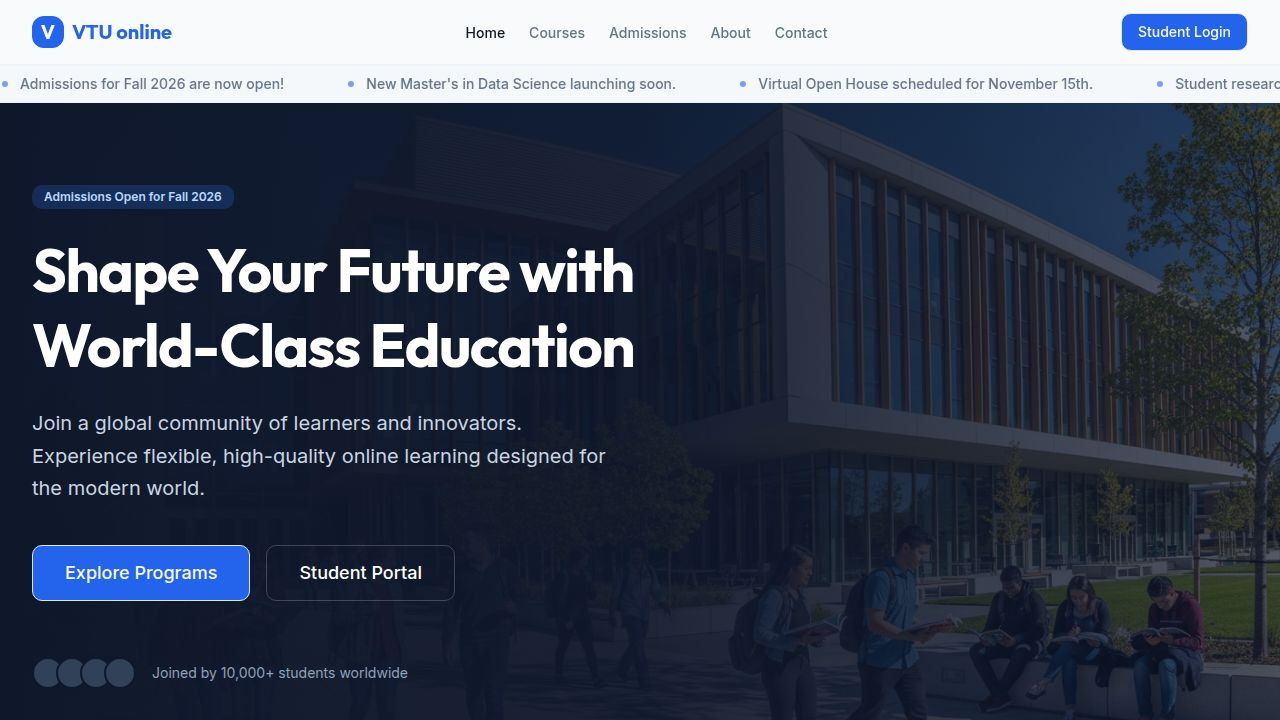
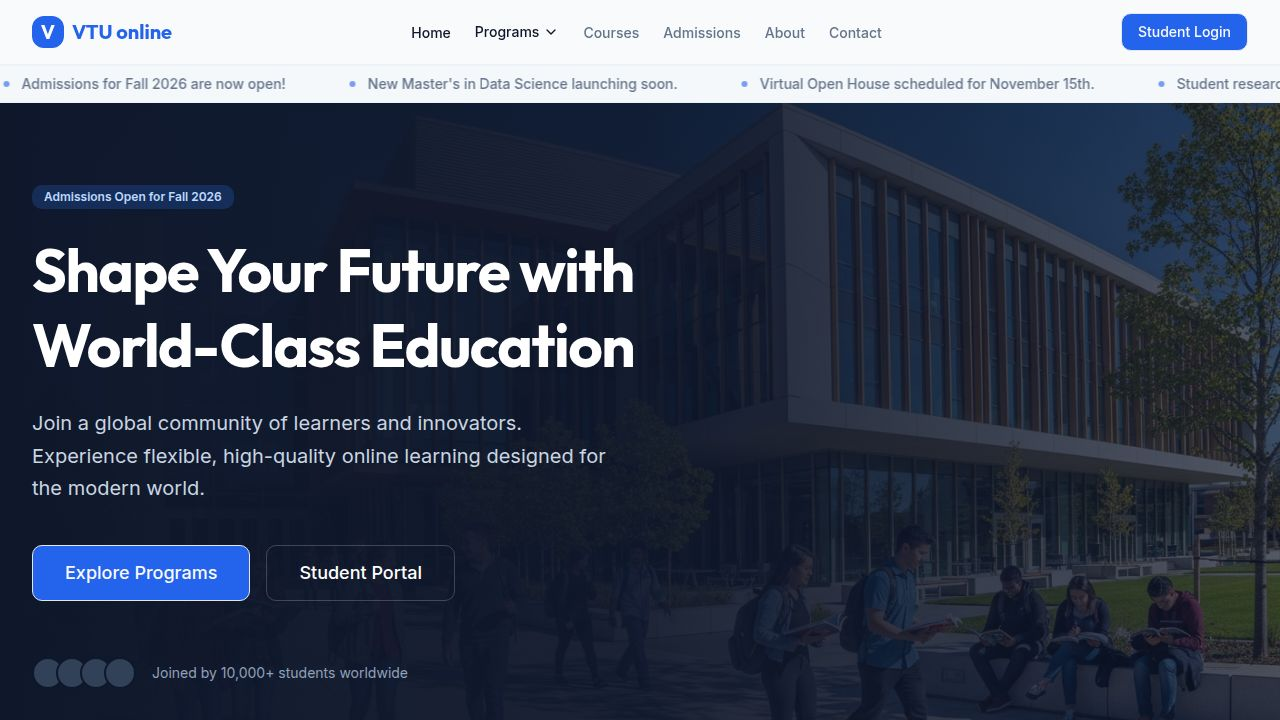
Reorganize navigation to separate programs and courses
Update App.tsx to handle separate routes for /programs/:programId and /courses/:courseId, and modify PublicLayout.tsx to rename the "Courses" dropdown to "Programs" and add a new separate "Courses" link.

Replit-Commit-Author: Agent
Replit-Commit-Session-Id: 80f406d5-0d03-458c-a75a-654c237fc839
Replit-Commit-Checkpoint-Type: full_checkpoint
Replit-Commit-Event-Id: ddef63ff-d65f-4467-a253-df8f7000a178
Replit-Commit-Screenshot-Url: https://storage.googleapis.com/screenshot-production-us-central1/d19b8a95-6b36-4bbb-87ff-ddd33fc5f158/80f406d5-0d03-458c-a75a-654c237fc839/eZwpiCq
Replit-Helium-Checkpoint-Created: true

diff --git a/client/src/components/layout/PublicLayout.tsx b/client/src/components/layout/PublicLayout.tsx
@@ -24,16 +24,16 @@ export default function PublicLayout({ children }: { children: React.ReactNode }
   const navLinks: NavItem[] = [
     { name: "Home", href: "/" },
     { 
-      name: "Courses", 
-      href: "/courses",
+      name: "Programs", 
+      href: "#",
       children: [
-        { name: "MOOC Resources", href: "/courses" },
-        { name: "Undergraduate", href: "/courses/undergraduate" },
-        { name: "Postgraduate", href: "/courses/postgraduate" },
-        { name: "Diploma Programs", href: "/courses/diploma" },
-        { name: "Certificates", href: "/courses/certificates" },
+        { name: "Undergraduate", href: "/programs/undergraduate" },
+        { name: "Postgraduate", href: "/programs/postgraduate" },
+        { name: "Diploma Programs", href: "/programs/diploma" },
+        { name: "Certificates", href: "/programs/certificates" },
       ]
     },
+    { name: "Courses", href: "/courses" },
     { name: "Admissions", href: "/admissions" },
     { name: "About", href: "/about" },
     { name: "Contact", href: "/contact" },

diff --git a/client/src/App.tsx b/client/src/App.tsx
@@ -39,15 +39,21 @@ function Router() {
         </PublicLayout>
       </Route>
 
-      {/* Public Courses Page */}
+      {/* Public Courses Page - MOOC List */}
       <Route path="/courses">
         <PublicLayout>
           <CoursesPage />
         </PublicLayout>
       </Route>
 
-      {/* Course Details Page */}
+      {/* Program/Course Details Page - Shared for now */}
       <Route path="/courses/:courseId">
+        <PublicLayout>
+          <CourseProgramDetailsPage />
+        </PublicLayout>
+      </Route>
+      
+      <Route path="/programs/:programId">
         <PublicLayout>
           <CourseProgramDetailsPage />
         </PublicLayout>
